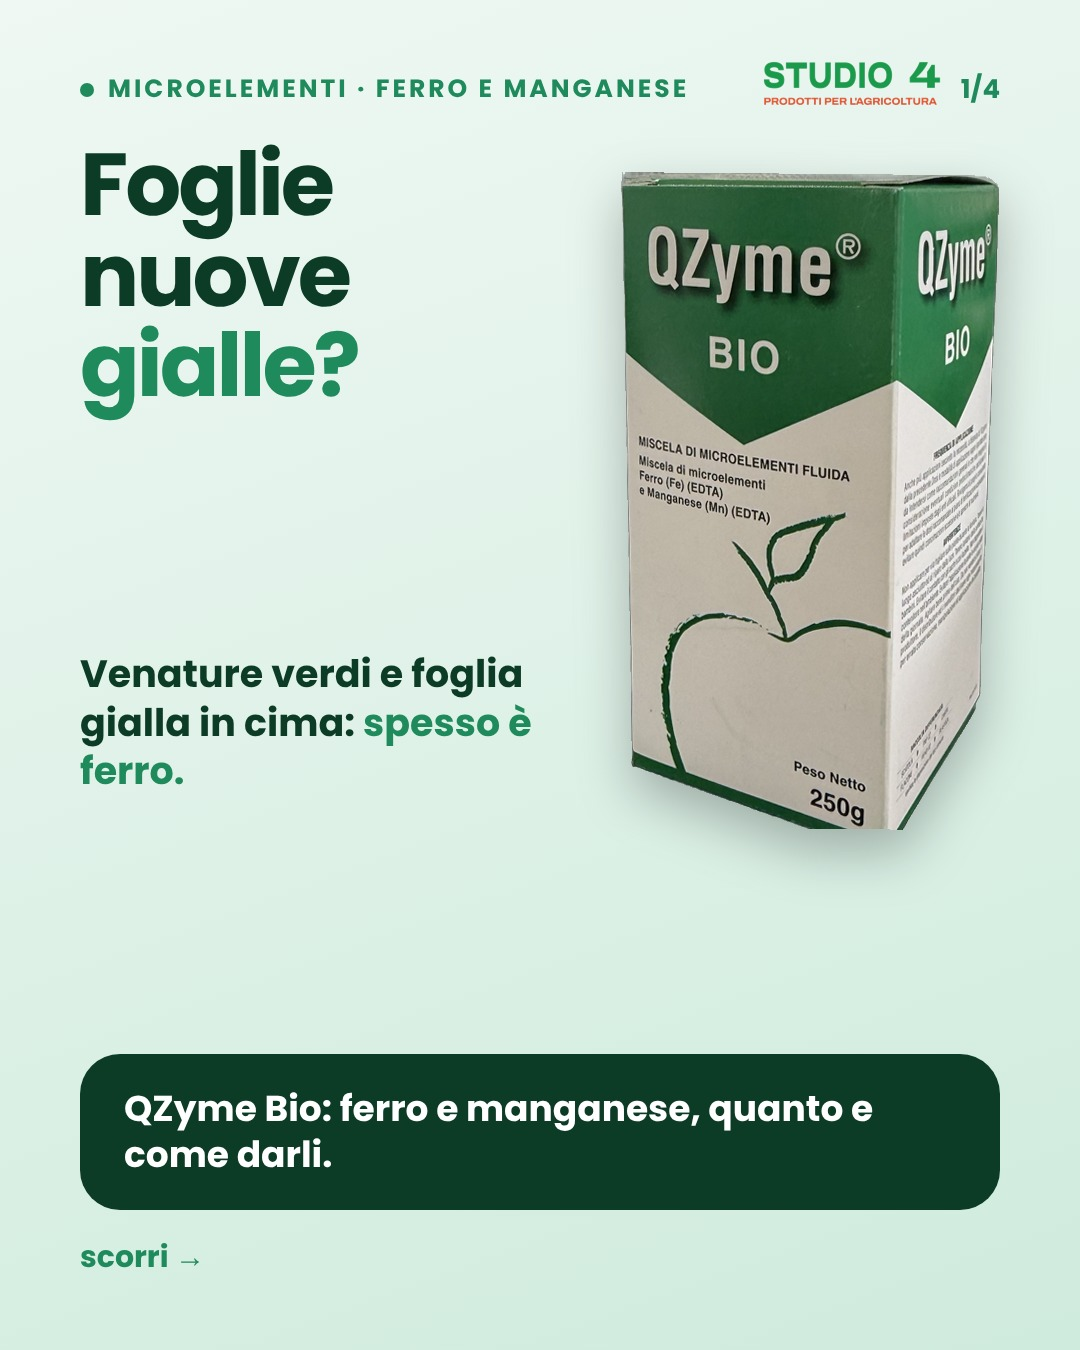
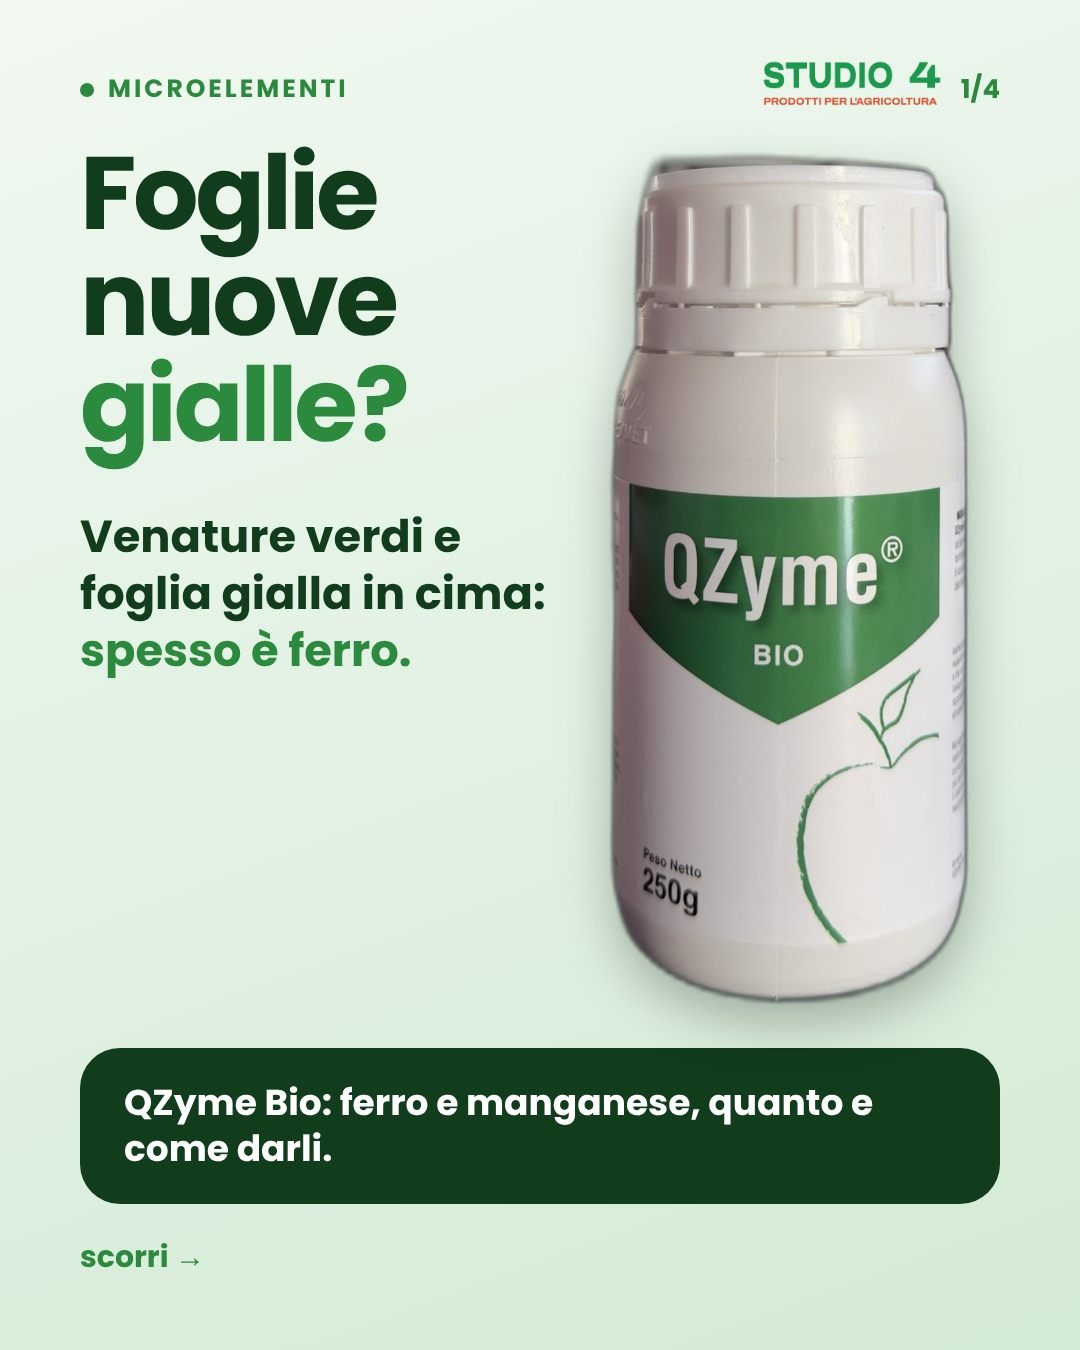
QZyme Bio: foto scontornata, post mer_0700 e storia rifatti, attesa_foto=false

Changed region(s): [[0.0611, 0.0622, 0.9472, 0.9022], [0.0611, 0.0933, 0.5194, 0.5911], [0.8861, 0.7778, 0.9167, 0.8089]]

diff --git a/settimane/2026-11-16/rapporto.md b/settimane/2026-11-16/rapporto.md
@@ -1,5 +1,11 @@
 # Rapporto di costruzione — settimana 2026-11-16
 
+- **mer_0700**: ok
 
 ## Copertura (3 post + richiami + adesivo 8:30 + curiosità 18:00 + tecnica 21:45 ogni giorno)
-- completa
+- lun 13:00: manca il post
+- lun 19:30: manca il post
+- lun 08:30: manca la storia con adesivo
+- lun 18:00: manca la curiosità
+- lun 21:45: manca la storia tecnica della sera
+- mar 07:00: manca il post
